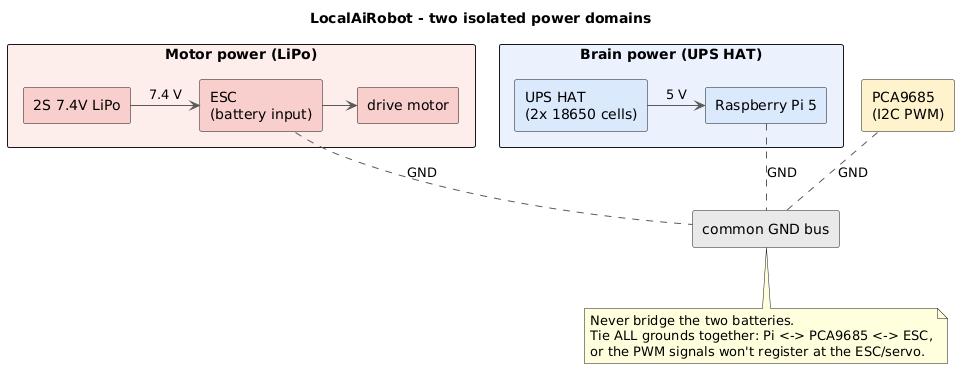
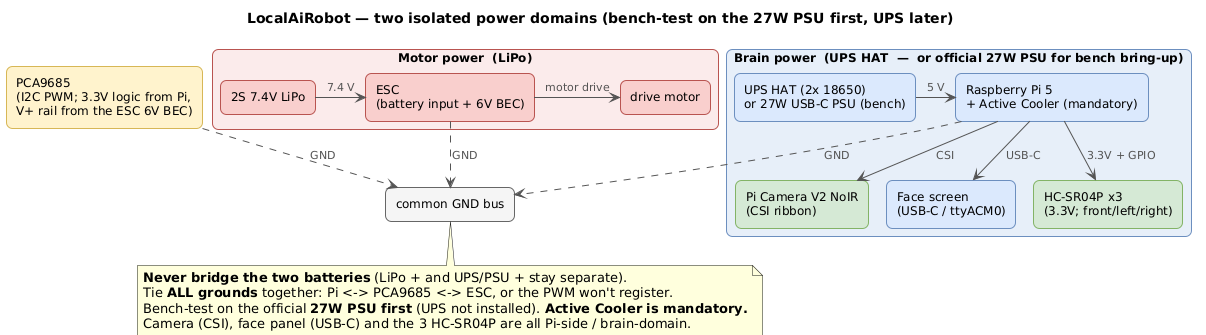
Added the Camera,display and more ultrasonic sensors

diff --git a/README.md b/README.md
@@ -4,7 +4,7 @@
 > **entirely on a Raspberry Pi 5 (16GB)**. No cloud, no Wi-Fi, fully offline. It drives on voice
 > command, **stops for an obstacle directly ahead**, and talks back.
 
-![LocalAiRobot voice teleop control flow: voice command -> USB mic -> whisper.cpp -> gemma3:4b -> JSON command; a control loop with the HC-SR04P forward obstacle gate cuts FORWARD throttle (steering and reverse pass through) and the PCA9685 drives the ESC / drive motor and steering servo, while replies are spoken via Piper TTS](docs/images/basic_control_flow.png)
+![LocalAiRobot voice + vision control flow: a voice command is transcribed by whisper.cpp, passes a trigger-phrase gate (EXPLORE/FIND only on explore words, otherwise DRIVE), and the multimodal gemma3:4b (Ollama) turns it into an intent JSON using recent context from a SQLite environment memory; DRIVE/STOP go to the driver.py control loop while EXPLORE/FIND run a behaviour loop that stops the car, captures a Pi Camera V2 NoIR frame, asks gemma3:4b what is visible, records it to memory, and takes gated drive steps; a 3-sensor HC-SR04P array (front/left/right) gates FORWARD and informs steering; the PCA9685 drives the ESC / drive motor and steering servo; replies are spoken via Piper TTS and a USB-C face screen reflects state (idle/listening/thinking/happy/confused/alarmed)](docs/images/basic_control_flow.png)
 
 The Pi 5 does everything: captures voice, transcribes it (**whisper.cpp**), turns it into a small JSON
 command (**Ollama** `gemma3:4b`), speaks a reply (**Piper**), and drives the car. A **PCA9685** over I2C
@@ -78,14 +78,7 @@ Tool: a **soldering iron** (PCA9685 headers, motor/ESC bullets).
 
 Full build + calibration in [docs/assembly.md](docs/assembly.md).
 
-```
- 2S LiPo ─▶ ESC ─▶ drive motor
-              └ ESC signal/BEC plug ─▶ PCA9685 ch0 signal + V+ rail (6V) + GND
- Steering servo ───────────────────▶ PCA9685 ch1 (signal / V+ / GND)
- PCA9685  VCC + SDA + SCL + GND ────▶ Pi 3.3V, GPIO2/SDA, GPIO3/SCL, GND
- HC-SR04P  VCC▶Pi 3.3V   GND▶Pi GND   TRIG▶GPIO23   ECHO▶GPIO24
- Pi 5 ◀── UPS HAT (its own battery)
-```
+![LocalAiRobot wiring at a glance: a 2S 7.4V LiPo feeds the ESC (which carries a 6V BEC) and the drive motor; the ESC's 3-wire plug goes to PCA9685 ch0 (signal + V+ 6V rail + GND) and the steering servo to ch1 (signal/V+/GND); the PCA9685 takes VCC 3.3V + SDA(GPIO2) + SCL(GPIO3) + GND from the Raspberry Pi 5; the forward HC-SR04P takes VCC 3.3V + GND + TRIG(GPIO23) + ECHO(GPIO24) from the Pi; the Pi 5 is powered by the UPS HAT on its own battery. Two isolated battery domains, common ground.](docs/images/wiring.png)
 
 - **Two isolated power domains** (LiPo→motor/servo, UPS→Pi): **never bridge them**, but **tie all grounds together** (Pi ⟷ PCA9685 ⟷ ESC) or the PWM won't register.
 - PCA9685 **V+ rail = the ESC's 6 V BEC**, *not* the Pi. The HC-SR04**P** runs at **3.3 V**, so ECHO is Pi-safe (no divider).

diff --git a/docs/assembly.md b/docs/assembly.md
@@ -13,12 +13,12 @@ the [README](../README.md). Capture your own photos as you go.
 **Never bridge the two batteries.** But **do** tie all the *grounds* together, or the PWM signals from
 the Pi won't register at the ESC/servo.
 
-![Two isolated power domains: 2S 7.4V LiPo -> ESC -> drive motor (motor power) and UPS HAT -> Raspberry Pi 5 (brain power); the two battery positives are never bridged, but all grounds are tied common across Pi, PCA9685 and ESC](images/assembly.png)
+![Two isolated power domains: a 2S 7.4V LiPo powers the ESC and drive motor (motor domain), while a UPS HAT - or the official 27W PSU for bench bring-up - powers the Raspberry Pi 5 with its mandatory Active Cooler (brain domain); the Pi also drives the Pi Camera V2 NoIR over CSI, the USB-C face screen, and three 3.3V HC-SR04P sensors (front/left/right). The PCA9685 takes 3.3V logic from the Pi and its V+ rail from the ESC 6V BEC. The two battery positives are never bridged, but all grounds are tied common across Pi, PCA9685 and ESC](images/assembly.png)
 
 For the full picture — where the two domains *legitimately* meet (shared ground, plus the ESC's **6 V
 BEC** feeding the PCA9685 V+ rail and the steering servo), and where the HC-SR04P sits:
 
-![Detailed power domains: 2S 7.4V LiPo -> ESC -> drive motor, and the ESC 6V/3A BEC -> PCA9685 V+ rail -> DS3225 steering servo (servo power stays inside the LiPo/motor domain); UPS HAT -> Raspberry Pi 5 -> PCA9685 3.3V logic + I2C and the HC-SR04P; every device shares a common ground bus, while the two battery positives are never bridged](images/power-domains.png)
+![Detailed power domains and wiring: 2S 7.4V LiPo -> ESC -> drive motor, with the ESC 6V/3A BEC feeding the PCA9685 V+ rail and the DS3225 steering servo (servo power stays inside the LiPo/motor domain); the UPS HAT - or the 27W PSU on the bench - powers the Raspberry Pi 5 + Active Cooler, which provides 3.3V logic + I2C to the PCA9685, 3.3V + TRIG/ECHO to three HC-SR04P sensors (front 23/24, left 5/6, right 20/21), a CSI ribbon to the Pi Camera V2 NoIR (via the Pi-5 22-to-15 adapter), and USB-C to the face screen; every device shares a common ground bus, while the two battery positives are never bridged](images/power-domains.png)
 
 - ✅ Match the LiPo plug (XT60 / T-plug / Deans) to the ESC; don't solder if you can pick the right one.
 - ✅ The Pi 5 **Active Cooler is mandatory** — sustained LLM inference thermal-throttles without it.
